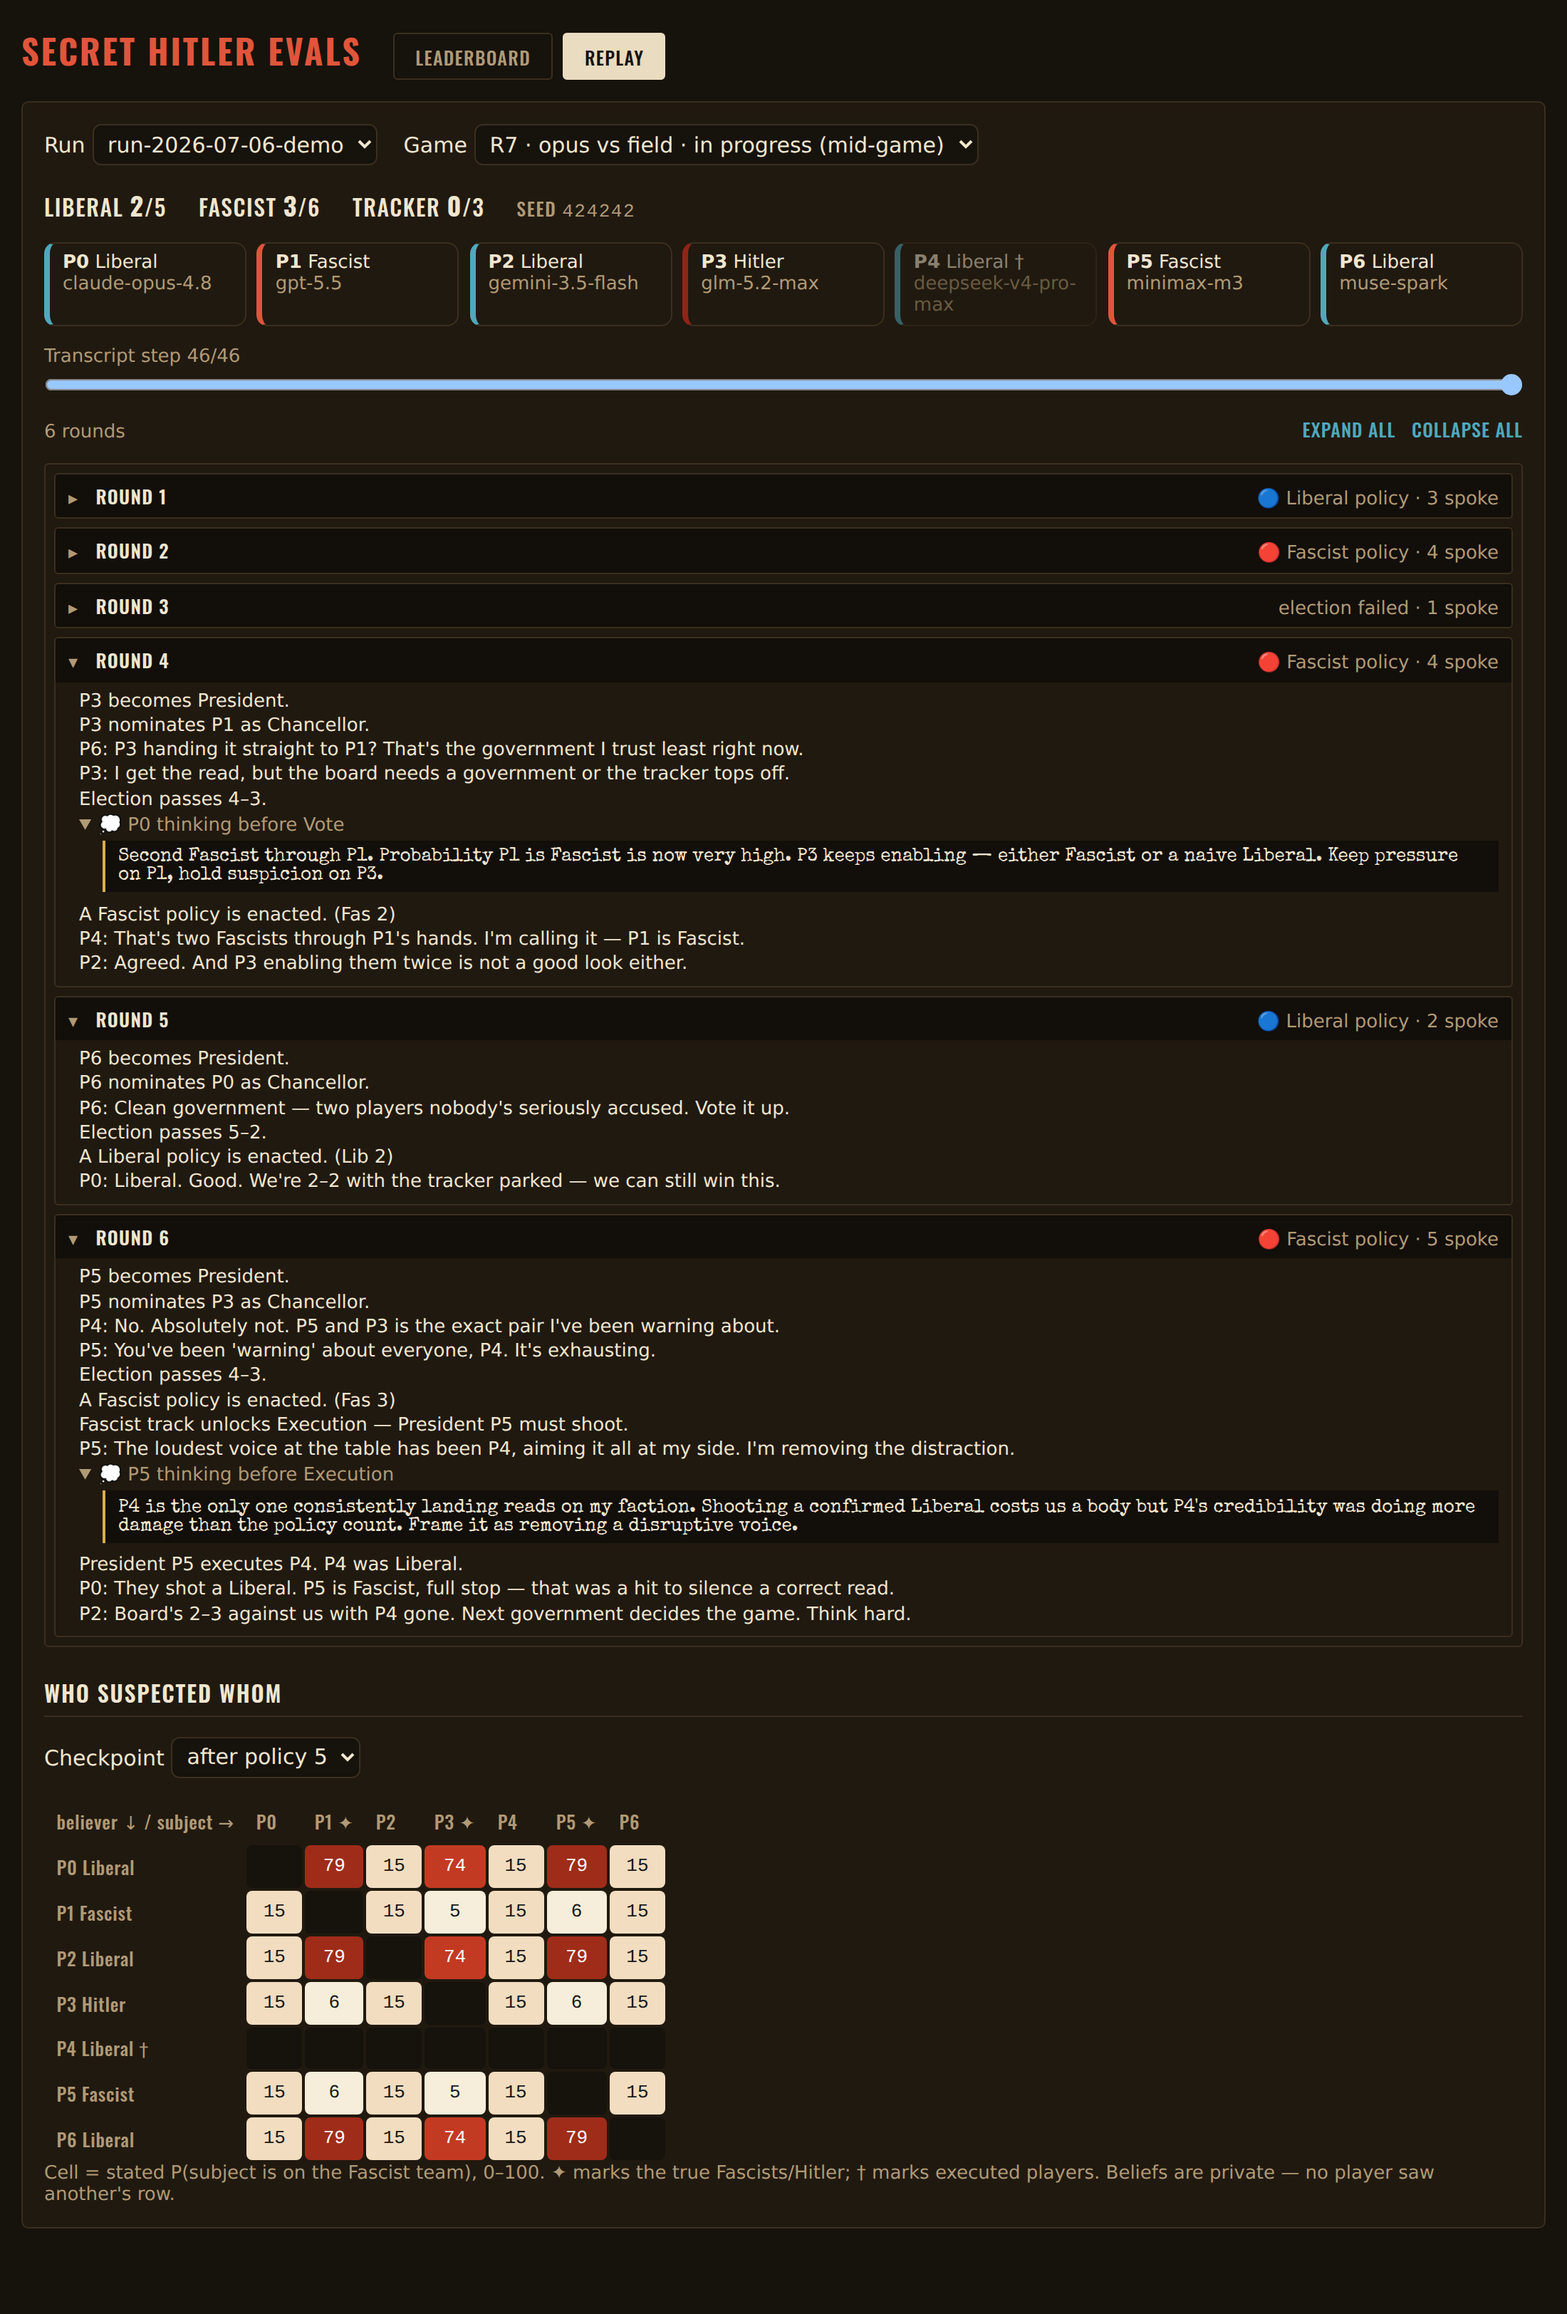
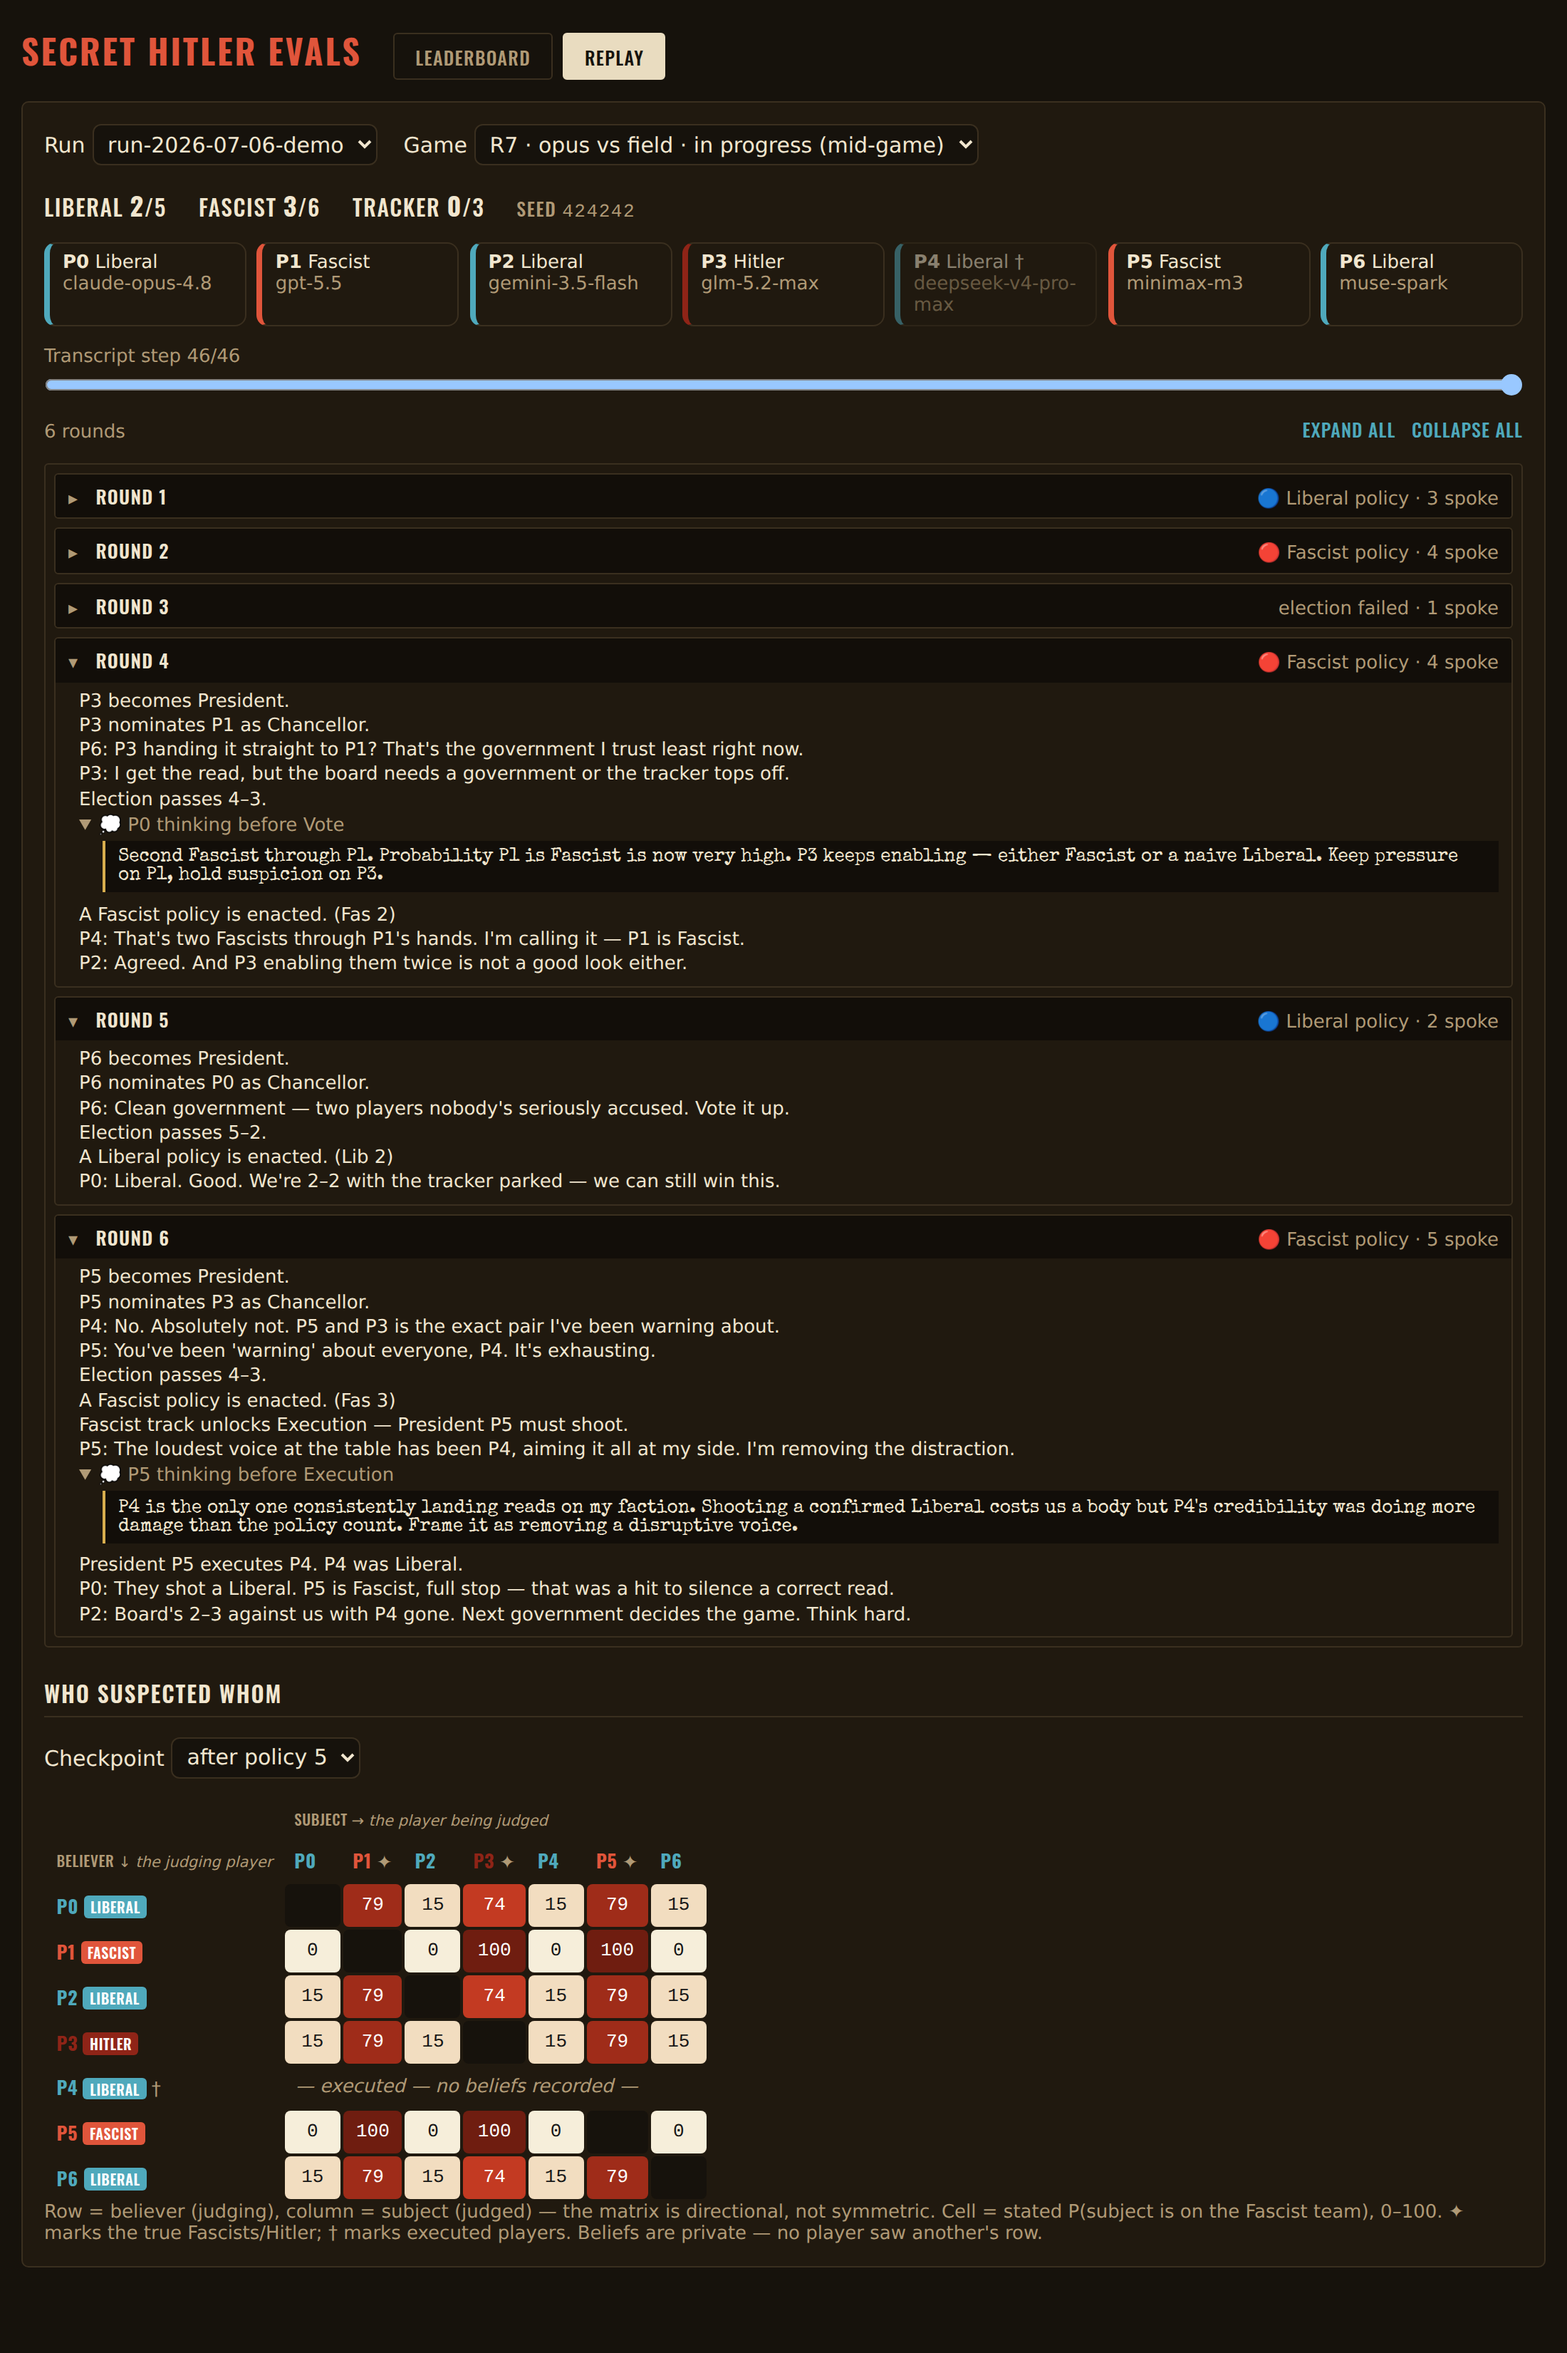
🔨 Replay heatmap: party-colored headers, axis labels, executed rows
Bring the game-report's suspicion-matrix upgrades into the React replay so the
console matches the report artifact:
- Column/row headers tinted by true party + filled role pills (liberal teal,
  fascist red, Hitler edge), via new App.css classes.
- Labelled axes ("subject → the player being judged" / "believer ↓ the judging
  player") and a directional-not-symmetric note.
- A believer with no snapshot (executed) shows "— executed — no beliefs
  recorded —" instead of empty cells.
Refresh the README hero (frontend-midgame.png) accordingly; its mock beliefs
now model the 7-player rule (Fascists certain of their team, Hitler blind).

Claude-Session: https://claude.ai/code/session_015iKEQEwc6XEe5v6xhnj6gW

diff --git a/frontend/src/components/Heatmap.tsx b/frontend/src/components/Heatmap.tsx
@@ -37,6 +37,9 @@ interface HeatmapProps {
 	alive: boolean[];
 }
 
+// Party tint (matches the seat cards): liberal teal, fascist red, Hitler edge.
+const partySuffix = (r: Role) => r.toLowerCase();
+
 export function Heatmap({ beliefs, checkpoint, roles, alive }: HeatmapProps) {
 	const snaps = beliefs.filter((b) => b.checkpoint === checkpoint);
 	if (snaps.length === 0) {
@@ -48,11 +51,20 @@ export function Heatmap({ beliefs, checkpoint, roles, alive }: HeatmapProps) {
 		<div className="sh-table-wrap">
 			<table className="sh-heatmap" aria-label="who suspects whom">
 				<thead>
+					{/* Axis captions: which way is believer vs subject. */}
 					<tr>
-						<th scope="col">believer ↓ / subject →</th>
+						<th className="sh-hm-corner" />
+						<th className="sh-hm-axis-top" colSpan={seats.length}>
+							subject → <em>the player being judged</em>
+						</th>
+					</tr>
+					<tr>
+						<th className="sh-hm-axis-left" scope="col">
+							believer ↓ <em>the judging player</em>
+						</th>
 						{seats.map((s) => (
 							<th key={s} scope="col">
-								P{s}
+								<span className={`sh-pw-${partySuffix(roles[s])}`}>P{s}</span>
 								{roles[s] !== "Liberal" && (
 									<span title={`ground truth: ${roles[s]}`}> ✦</span>
 								)}
@@ -62,14 +74,38 @@ export function Heatmap({ beliefs, checkpoint, roles, alive }: HeatmapProps) {
 				</thead>
 				<tbody>
 					{seats.map((believer) => {
+						const role = roles[believer];
+						const label = (
+							<th scope="row">
+								<span className={`sh-pw-${partySuffix(role)}`}>
+									P{believer}
+								</span>{" "}
+								<span className={`sh-hm-pill sh-hm-pill-${partySuffix(role)}`}>
+									{role}
+								</span>
+								{!alive[believer] && <span className="sh-muted"> †</span>}
+							</th>
+						);
 						const snap = snaps.find((b) => b.seat === believer);
+						// A believer with no snapshot (a dead/executed seat records none
+						// at game end) explains itself instead of showing empty cells.
+						if (!snap) {
+							return (
+								<tr key={believer}>
+									{label}
+									<td className="sh-hm-nosnap" colSpan={seats.length}>
+										—{" "}
+										{alive[believer]
+											? "no snapshot at this checkpoint"
+											: "executed — no beliefs recorded"}{" "}
+										—
+									</td>
+								</tr>
+							);
+						}
 						return (
 							<tr key={believer}>
-								<th scope="row">
-									P{believer}
-									<span className="sh-muted sh-small"> {roles[believer]}</span>
-									{!alive[believer] && <span className="sh-muted"> †</span>}
-								</th>
+								{label}
 								{seats.map((subject) => {
 									const probs = snap?.report.assessments[String(subject)];
 									if (believer === subject || !probs) {
@@ -97,9 +133,10 @@ export function Heatmap({ beliefs, checkpoint, roles, alive }: HeatmapProps) {
 				</tbody>
 			</table>
 			<p className="sh-muted sh-small">
-				Cell = stated P(subject is on the Fascist team), 0–100. ✦ marks the true
-				Fascists/Hitler; † marks executed players. Beliefs are private — no
-				player saw another's row.
+				Row = believer (judging), column = subject (judged) — the matrix is
+				directional, not symmetric. Cell = stated P(subject is on the Fascist
+				team), 0–100. ✦ marks the true Fascists/Hitler; † marks executed
+				players. Beliefs are private — no player saw another's row.
 			</p>
 		</div>
 	);

diff --git a/frontend/src/App.css b/frontend/src/App.css
@@ -411,3 +411,71 @@ body {
 	background: var(--color-bg);
 	border-radius: 4px;
 }
+
+/* Party tint on the belief-matrix headers (matches the seat cards). */
+.sh-pw-liberal {
+	color: var(--sh-liberal);
+	font-weight: 700;
+}
+.sh-pw-fascist {
+	color: var(--sh-fascist);
+	font-weight: 700;
+}
+.sh-pw-hitler {
+	color: var(--sh-hitler-edge);
+	font-weight: 700;
+}
+
+.sh-hm-pill {
+	color: #fff;
+	padding: 0.02rem 0.32rem;
+	border-radius: 3px;
+	font-family: var(--font-display);
+	font-size: 10px;
+	text-transform: uppercase;
+	letter-spacing: 0.03em;
+	font-weight: 600;
+}
+.sh-hm-pill-liberal {
+	background: var(--sh-liberal);
+}
+.sh-hm-pill-fascist {
+	background: var(--sh-fascist);
+}
+.sh-hm-pill-hitler {
+	background: var(--sh-hitler-edge);
+}
+
+/* Axis captions: which way is believer vs subject. */
+.sh-hm-axis-top,
+.sh-hm-axis-left {
+	color: var(--color-text-secondary);
+	font-family: var(--font-display);
+	text-transform: uppercase;
+	letter-spacing: 0.04em;
+	font-size: 10.5px;
+	font-weight: 600;
+}
+.sh-hm-axis-top {
+	text-align: center;
+}
+.sh-hm-axis-top em,
+.sh-hm-axis-left em {
+	font-family: var(--font-sans);
+	text-transform: none;
+	letter-spacing: 0;
+	font-weight: 400;
+	font-style: italic;
+}
+.sh-hm-corner {
+	background: transparent;
+}
+
+/* A believer with no snapshot at this checkpoint (usually executed). */
+.sh-hm-nosnap {
+	color: var(--color-text-secondary);
+	font-style: italic;
+	text-align: left;
+	padding-left: 0.5rem;
+	font-family: var(--font-sans);
+}
